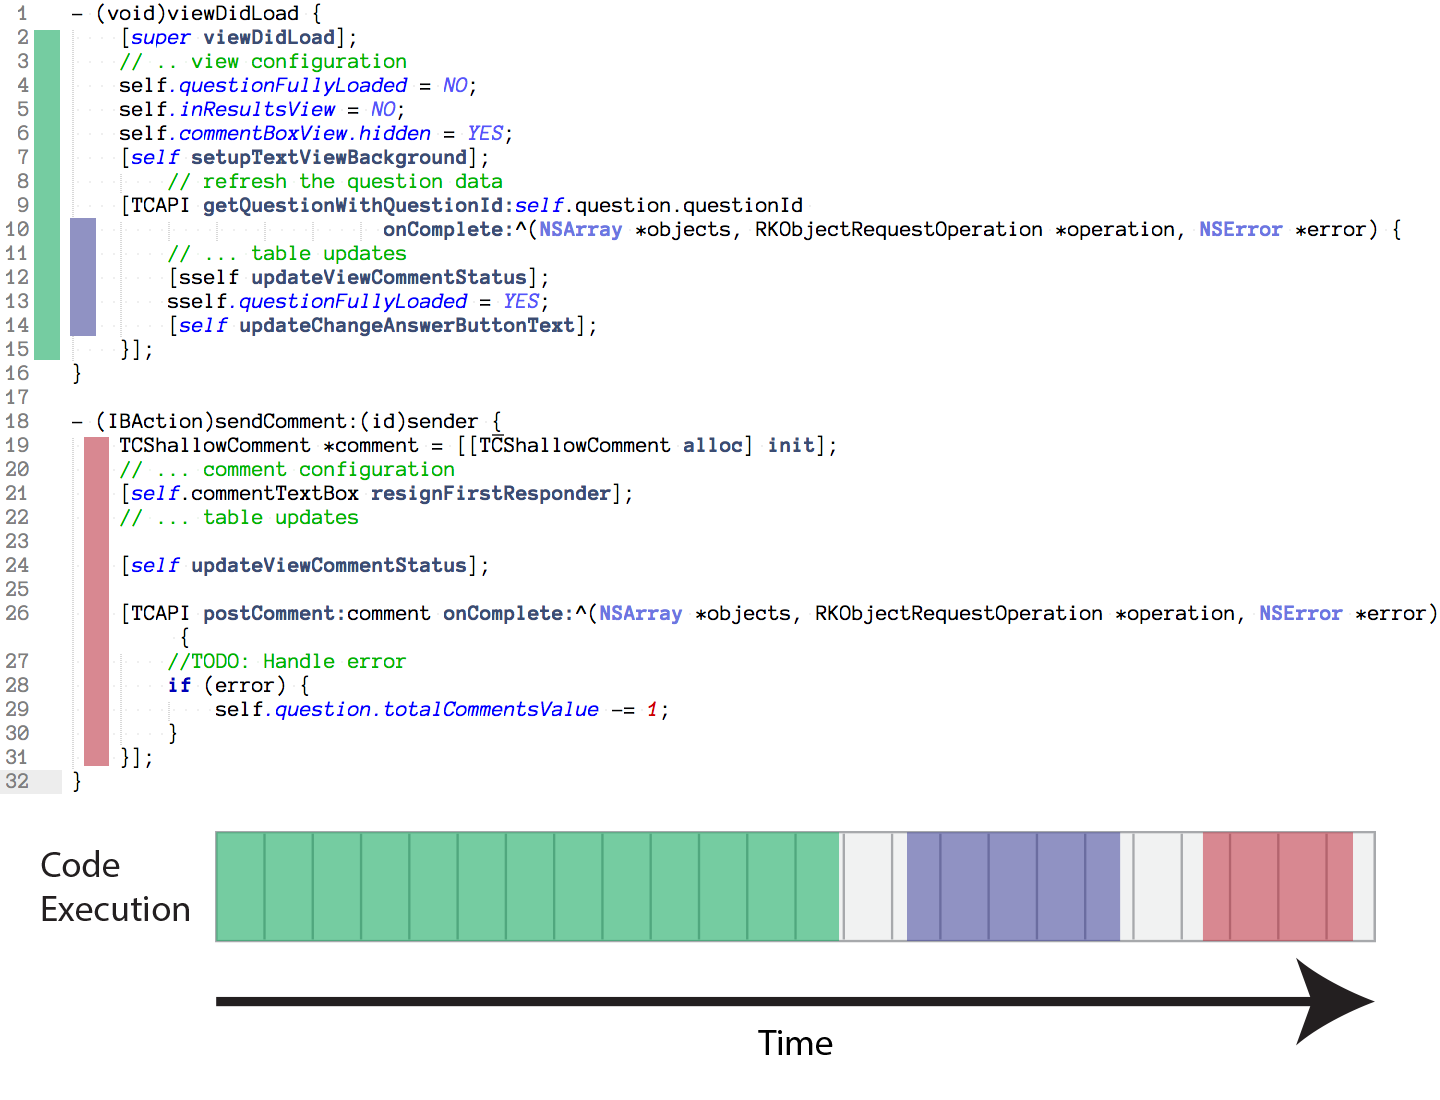
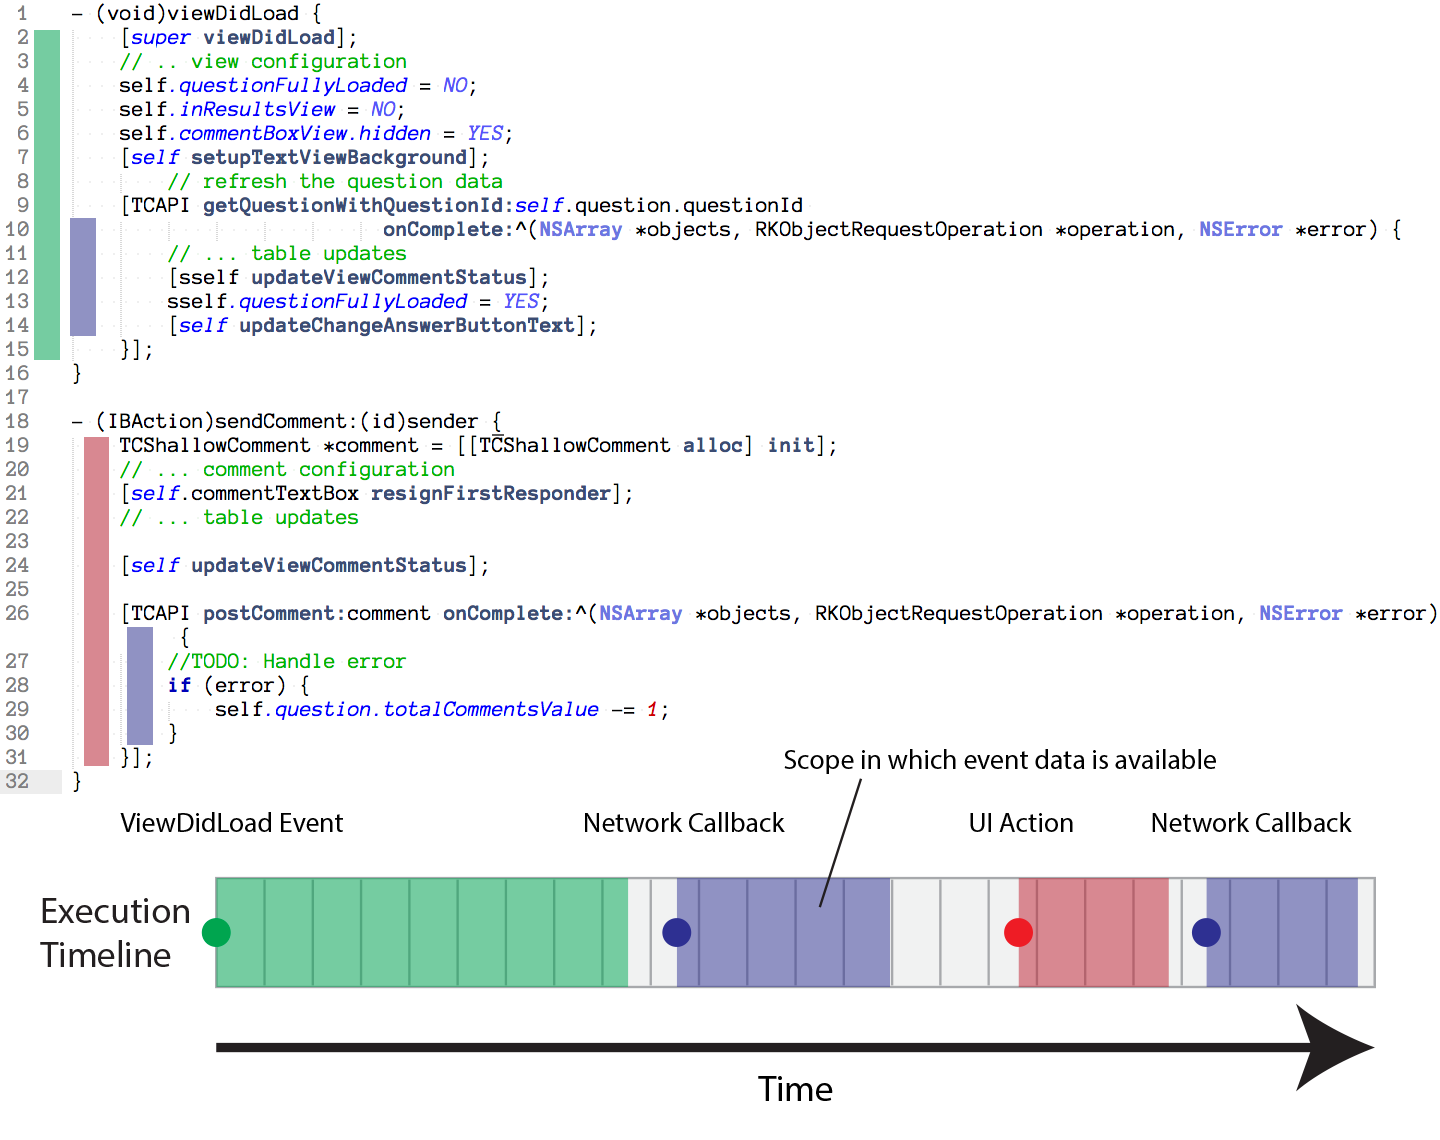
Updated some language and graphics

diff --git a/Why Reactive Cocoa.md b/Why Reactive Cocoa.md
@@ -36,11 +36,11 @@ The problem is that we rarely (read: never) are updating our output based on *ju
 >"To put it another way, the output at any one time is the result of combining all inputs. The output is a function of all inputs up to that time."
 
 ## Paper Tape Computing (Linear Programming)
-The issue here is one of **time**. Time is a pain in the keister. Basically, we program in linear fashion, never wandering all that far from the way things were done on [paper tape computers](https://www.youtube.com/watch?v=uqyVgrplrno). We have an understanding that there is a run loop, and that our code is going to be placed on a time line and executed in order (ignoring multiple processes for the sake of argument.) Even our awesome block callbacks and delegates are just giving us another snippet of time on the time line where we can execute code, as shown in this beautiful (and super simplified) diagram.
+The issue here is one of **time**, or more accurately, the timeline of execution. Basically, we program in linear fashion, never wandering all that far from the way things were done on [paper tape computers](https://www.youtube.com/watch?v=uqyVgrplrno). We have an understanding that there is a run loop, and that our code is going to be placed on a time line and executed in order (ignoring multiple processes for the sake of argument.) Even our awesome block callbacks and delegates are just giving us another snippet of time on the time line where we can execute code. In fact all our code is driven by inputs (events) just giving us another chance to insert some paper tape, as shown in this beautiful (and super simplified) diagram.
 
 ![Taking turns on the paper tape computer][code-timeline]
 
-If all these events (inputs) would just occur at the exact same time our lives would be much easier. The problem is that events are occuring *as time is passing*. When any one of those events occurs, we may need to generate output. To do that, we need to combine the new information from this event with all the information from past relevant, but divorced events that might affect our new output. (In this instance we're updating the screen.)
+The period of time in which the data from these events is available to us is limited to a small spot on our linear execution timeline (scope). Even if all these events occured at the exact same millisecond, the CPU would still have to handle one at a time. Our code is stuck in single file. To do that, we need to combine the new information from this event with all the information from past relevant, but divorced events that might affect our new output. (In this instance we're updating the screen.)
 
 ![Events over time][events]
 
@@ -109,7 +109,7 @@ We don't care WHEN events (inputs) happen. We want to get away from that crazy t
 When you think about it, this concept is actually very simple, and not entirely foreign. Inputs and outputs:
 
 ![A home-made 4-bit computer logic board with lights][logic-board]
-[Original site](http://www.waitingforfriday.com/index.php/4-Bit_Computer)
+[Source](http://www.waitingforfriday.com/index.php/4-Bit_Computer)
 
 ##ReactiveCocoa
 
